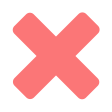
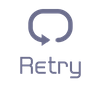
new function :retry

diff --git a/main.py b/main.py
@@ -20,7 +20,7 @@ pygame.display.set_caption("哎呀快要滑倒啦")
 #################################################################################
 
 WIN_WIDTH, WIN_HEIGHT = 1280, 720    #螢幕大小
-FRAME_PER_SECONDS = 30               #最大幀數(通常不準的啦)
+FRAME_PER_SECONDS = 144               #最大幀數(通常不準的啦)
 win = pygame.display.set_mode((WIN_WIDTH, WIN_HEIGHT))
 clock = pygame.time.Clock()
 img_base_path = os.getcwd() + '/images/'
@@ -37,6 +37,7 @@ now = 0.0
 counter = 0
 score = 0
 combo = 0
+copyarr = []
 #################################################################################
 ###                                                                           ###
 ###                              ### 圖片區 ###                                ###
@@ -185,7 +186,7 @@ group.add(character)
 #################################################################################
 #主渲染函式
 def redrawGameWindow():
-    global clickanimation,screen1,screen2,switch,now,score,combo
+    global clickanimation,screen1,screen2,switch,now,score,combo,counter,copyarr
     fps = font1.render('FPS:' + str(int(clock.get_fps())),True,(0,0,0))
     if screen1:
         #切換畫面
@@ -220,14 +221,17 @@ def redrawGameWindow():
         if switch:
             switch = False
             for i in range(objnum):
+                fall[i].__init__(win)
                 fall[i].load((i % 3) + 1)
             character.rect.centerx = x #初始人物座標X
             character.rect.centery = y #初始人物座標Y
+            counter = 0
             score = 0
             combo = 0
             playmusic('audio.mp3',1)
             now = time.time() #音樂撥放時開始計時
-            t.start()           #另一執行序開始產生物件
+            copyarr = arr.copy()
+            t.running.set()           #另一執行序開始產生物件
         if left:
             character.image = catchleft
         if right:
@@ -297,22 +301,6 @@ def detectCollisions(x1, y1, w1, h1, x2, y2, w2, h2):
     else:
         return False
 #產生物件
-def produce(a):
-    global now, counter,screen1,screen2,screen3,switch,t
-    while True:
-        if a ==[] and len(group1) == 0:
-            screen1 = False
-            screen2 = False
-            screen3 = True
-            switch = True
-            pygame.mixer.music.fadeout(4000)
-            break
-        tmp = time.time() - now
-        if a != [] and tmp >= a[0]:
-            group1.add(fall[counter])
-            del a[0]
-            counter += 1
-
 #################################################################################
 ###                                                                           ###
 ###                          ### 墜落物生成時間區 ###                          ###
@@ -354,8 +342,29 @@ arr = [8.378,8.69,9.007,9.608,9.92,10.249,10.88,11.196,11.821,12.446,
 ###                                                                           ###
 ###                          ### 執行序區 ###                                  ###
 #################################################################################
-t = threading.Thread(target=produce,args=(arr,))
-
+class que(threading.Thread):
+    def __init__(self):
+        threading.Thread.__init__(self)
+        self.running = threading.Event()
+        self.running.clear()
+    def run(self):
+        global now, counter,screen1,screen2,screen3,switch,t,copyarr
+        while True:
+            self.running.wait()
+            if copyarr ==[] and len(group1) == 0:
+                screen1 = False
+                screen2 = False
+                screen3 = True
+                switch = True
+                pygame.mixer.music.fadeout(3000)
+                self.running.clear()
+            tmp = time.time() - now
+            if copyarr != [] and tmp >= copyarr[0]:
+                group1.add(fall[counter])
+                del copyarr[0]
+                counter += 1
+t = que()
+t.start()
 #################################################################################
 ###                                                                           ###
 ###                          ### 主程式區 ###                                  ###
@@ -414,7 +423,26 @@ while run:
         clickanimation = True
         menuhit.play()
         if detectCollisions(pygame.mouse.get_pos()[0],pygame.mouse.get_pos()[1],8,8,1150,450,83,85):
-            run = False
+            printscore = chinese3.render(str(score),True,(100,100,100))
+            printcombo = chinese3.render(str(combo),True,(100,100,100))
+            for i in range(30):
+                clock.tick(60)
+                clickfps = font1.render('FPS:' + str(int(clock.get_fps())),True,(0,0,0))
+                win.blit(bg2,(0,0))
+                win.blit(clickfps,(1150,0))
+                win.blit(rankingpanel,(0,0))
+                win.blit(printscore,(75,70))
+                win.blit(printcombo,(75,450))
+                win.blit(rank,(405,415))
+                win.blit(songname,(73,640))
+                win.blit(retry,(1150,450))
+                win.blit(click[i % 30],(pygame.mouse.get_pos()[0] - 400,pygame.mouse.get_pos()[1] - 400))
+                pygame.display.update()
+            clickanimation = False
+            screen1 = True
+            screen2 = False
+            screen3 = False
+            switch = True
             pygame.mixer.music.fadeout(2000)
     else:
         clickanimation = False
